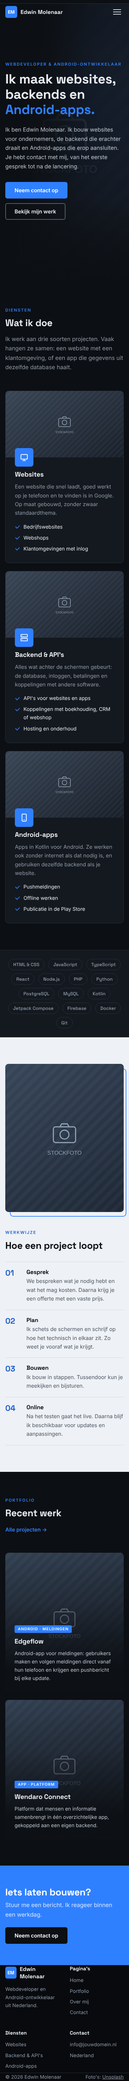
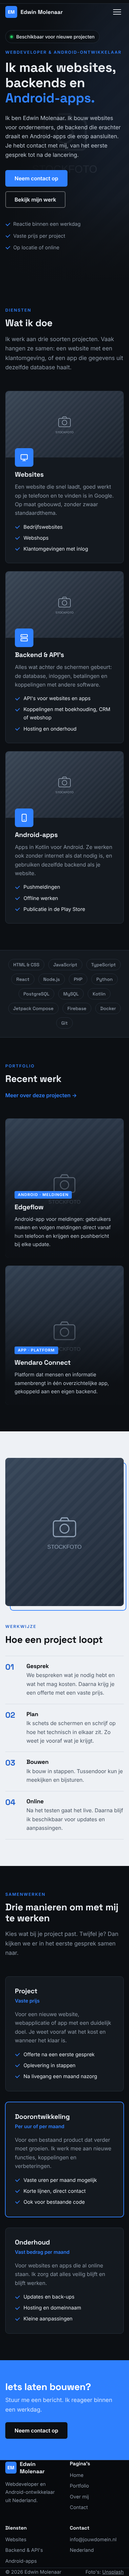
Restructure site after reviewing freelance developer sites
Homepage: availability badge and key facts in the hero, recent work
moved up, and a section with three ways of working together.
Portfolio: projects shown as larger case-study rows.

Claude-Session: https://claude.ai/code/session_01BR2aM2KyyCs7b3zr3d6H45

diff --git a/index.html b/index.html
@@ -32,6 +32,7 @@
     <section class="hero">
       <img class="hero-bg" src="https://images.unsplash.com/photo-1498050108023-c5249f4df085?auto=format&fit=crop&w=1920&q=70" alt="" aria-hidden="true">
       <div class="container hero-content">
+        <p class="status"><span class="dot"></span>Beschikbaar voor nieuwe projecten</p>
         <p class="eyebrow">Webdeveloper &amp; Android-ontwikkelaar</p>
         <h1>Ik maak websites, backends en <span class="accent">Android-apps.</span></h1>
         <p class="lead">Ik ben Edwin Molenaar. Ik bouw websites voor ondernemers, de backend die erachter draait en Android-apps die erop aansluiten. Je hebt contact met mij, van het eerste gesprek tot na de lancering.</p>
@@ -39,6 +40,11 @@
           <a href="contact.html" class="btn">Neem contact op</a>
           <a href="portfolio.html" class="btn btn-ghost">Bekijk mijn werk</a>
         </div>
+        <ul class="hero-facts">
+          <li>Reactie binnen een werkdag</li>
+          <li>Vaste prijs per project</li>
+          <li>Op locatie of online</li>
+        </ul>
       </div>
     </section>
 
@@ -99,6 +105,36 @@
       </div>
     </section>
 
+    <section class="section">
+      <div class="container">
+        <div class="section-head section-head-row">
+          <div>
+            <p class="eyebrow">Portfolio</p>
+            <h2>Recent werk</h2>
+          </div>
+          <a href="portfolio.html" class="link-arrow">Meer over deze projecten &rarr;</a>
+        </div>
+        <div class="projects projects-duo">
+          <article class="project" data-cat="android">
+            <img src="https://images.unsplash.com/photo-1551650975-87deedd944c3?auto=format&fit=crop&w=900&q=70" alt="" loading="lazy">
+            <div class="project-body">
+              <span class="tag">Android · Meldingen</span>
+              <h3>Edgeflow</h3>
+              <p>Android-app voor meldingen: gebruikers maken en volgen meldingen direct vanaf hun telefoon en krijgen een pushbericht bij elke update.</p>
+            </div>
+          </article>
+          <article class="project" data-cat="android">
+            <img src="https://images.unsplash.com/photo-1551434678-e076c223a692?auto=format&fit=crop&w=900&q=70" alt="" loading="lazy">
+            <div class="project-body">
+              <span class="tag">App · Platform</span>
+              <h3>Wendaro Connect</h3>
+              <p>Platform dat mensen en informatie samenbrengt in één overzichtelijke app, gekoppeld aan een eigen backend.</p>
+            </div>
+          </article>
+        </div>
+      </div>
+    </section>
+
     <section class="section section-light" id="werkwijze">
       <div class="container split">
         <div class="split-media">
@@ -117,31 +153,44 @@
       </div>
     </section>
 
-    <section class="section">
+
+    <section class="section" id="samenwerken">
       <div class="container">
-        <div class="section-head section-head-row">
-          <div>
-            <p class="eyebrow">Portfolio</p>
-            <h2>Recent werk</h2>
-          </div>
-          <a href="portfolio.html" class="link-arrow">Alle projecten &rarr;</a>
+        <div class="section-head">
+          <p class="eyebrow">Samenwerken</p>
+          <h2>Drie manieren om met mij te werken</h2>
+          <p>Kies wat bij je project past. Twijfel je? Dan kijken we er in het eerste gesprek samen naar.</p>
         </div>
-        <div class="projects projects-duo">
-          <article class="project" data-cat="android">
-            <img src="https://images.unsplash.com/photo-1551650975-87deedd944c3?auto=format&fit=crop&w=900&q=70" alt="" loading="lazy">
-            <div class="project-body">
-              <span class="tag">Android · Meldingen</span>
-              <h3>Edgeflow</h3>
-              <p>Android-app voor meldingen: gebruikers maken en volgen meldingen direct vanaf hun telefoon en krijgen een pushbericht bij elke update.</p>
-            </div>
+        <div class="plans">
+          <article class="plan">
+            <h3>Project</h3>
+            <p class="plan-sub">Vaste prijs</p>
+            <p>Voor een nieuwe website, webapplicatie of app met een duidelijk doel. Je weet vooraf wat het kost en wanneer het klaar is.</p>
+            <ul class="checks">
+              <li>Offerte na een eerste gesprek</li>
+              <li>Oplevering in stappen</li>
+              <li>Na livegang een maand nazorg</li>
+            </ul>
           </article>
-          <article class="project" data-cat="android">
-            <img src="https://images.unsplash.com/photo-1551434678-e076c223a692?auto=format&fit=crop&w=900&q=70" alt="" loading="lazy">
-            <div class="project-body">
-              <span class="tag">App · Platform</span>
-              <h3>Wendaro Connect</h3>
-              <p>Platform dat mensen en informatie samenbrengt in één overzichtelijke app, gekoppeld aan een eigen backend.</p>
-            </div>
+          <article class="plan plan-featured">
+            <h3>Doorontwikkeling</h3>
+            <p class="plan-sub">Per uur of per maand</p>
+            <p>Voor een bestaand product dat verder moet groeien. Ik werk mee aan nieuwe functies, koppelingen en verbeteringen.</p>
+            <ul class="checks">
+              <li>Vaste uren per maand mogelijk</li>
+              <li>Korte lijnen, direct contact</li>
+              <li>Ook voor bestaande code</li>
+            </ul>
+          </article>
+          <article class="plan">
+            <h3>Onderhoud</h3>
+            <p class="plan-sub">Vast bedrag per maand</p>
+            <p>Voor websites en apps die al online staan. Ik zorg dat alles veilig blijft en blijft werken.</p>
+            <ul class="checks">
+              <li>Updates en back-ups</li>
+              <li>Hosting en domeinnaam</li>
+              <li>Kleine aanpassingen</li>
+            </ul>
           </article>
         </div>
       </div>

diff --git a/portfolio.html b/portfolio.html
@@ -33,32 +33,32 @@
       <img class="hero-bg" src="https://images.unsplash.com/photo-1461749280684-dccba630e2f6?auto=format&fit=crop&w=1920&q=70" alt="" aria-hidden="true">
       <div class="container hero-content">
         <p class="eyebrow">Portfolio</p>
-        <h1>Werk waar ik trots op ben</h1>
-        <p class="lead">Een selectie van websites, backendsystemen en Android-apps. Elk project is maatwerk, gebouwd rond het doel van de klant.</p>
+        <h1>Projecten</h1>
+        <p class="lead">Apps en systemen die ik heb gebouwd.</p>
       </div>
     </section>
 
     <section class="section">
       <div class="container">
-        <div class="projects projects-duo" id="project-grid">
-          <article class="project" data-cat="android">
-            <img src="https://images.unsplash.com/photo-1551650975-87deedd944c3?auto=format&fit=crop&w=900&q=70" alt="" loading="lazy">
-            <div class="project-body">
-              <span class="tag">Android · Meldingen</span>
-              <h3>Edgeflow</h3>
-              <p>Android-app voor meldingen: gebruikers maken en volgen meldingen direct vanaf hun telefoon en krijgen een pushbericht bij elke update.</p>
-              <div class="tech-tags"><span>Android</span><span>Pushmeldingen</span></div>
-            </div>
-          </article>
-          <article class="project" data-cat="android">
-            <img src="https://images.unsplash.com/photo-1551434678-e076c223a692?auto=format&fit=crop&w=900&q=70" alt="" loading="lazy">
-            <div class="project-body">
-              <span class="tag">App · Platform</span>
-              <h3>Wendaro Connect</h3>
-              <p>Platform dat mensen en informatie samenbrengt in één overzichtelijke app, gekoppeld aan een eigen backend.</p>
-              <div class="tech-tags"><span>Android</span><span>Backend</span></div>
-            </div>
-          </article>
+        <div class="cases">
+        <article class="case">
+          <div class="case-media"><img src="https://images.unsplash.com/photo-1551650975-87deedd944c3?auto=format&fit=crop&w=1200&q=70" alt="" loading="lazy"></div>
+          <div class="case-body">
+            <span class="tag">Android · Meldingen</span>
+            <h2>Edgeflow</h2>
+            <p>Android-app voor meldingen: gebruikers maken en volgen meldingen direct vanaf hun telefoon en krijgen een pushbericht bij elke update.</p>
+            <div class="tech-tags"><span>Android</span><span>Pushmeldingen</span></div>
+          </div>
+        </article>
+        <article class="case case-flip">
+          <div class="case-media"><img src="https://images.unsplash.com/photo-1551434678-e076c223a692?auto=format&fit=crop&w=1200&q=70" alt="" loading="lazy"></div>
+          <div class="case-body">
+            <span class="tag">App · Platform</span>
+            <h2>Wendaro Connect</h2>
+            <p>Platform dat mensen en informatie samenbrengt in één overzichtelijke app, gekoppeld aan een eigen backend.</p>
+            <div class="tech-tags"><span>Android</span><span>Backend</span></div>
+          </div>
+        </article>
         </div>
       </div>
     </section>

diff --git a/style.css b/style.css
@@ -293,6 +293,37 @@ p { margin: 0 0 1em; }
 .footer-grid .logo { color: var(--text); }
 .footer-bottom { display: flex; flex-wrap: wrap; justify-content: space-between; gap: 10px 24px; border-top: 1px solid var(--line); padding-top: 22px; padding-bottom: 28px; }
 
+/* Beschikbaarheid & feiten in de hero */
+.status {
+  display: inline-flex; align-items: center; gap: 10px; margin-bottom: 22px;
+  font-size: .88rem; font-weight: 500; color: var(--text);
+  border: 1px solid var(--line); background: rgba(var(--bg-rgb), .6);
+  padding: 7px 14px; border-radius: 999px;
+}
+.dot { width: 8px; height: 8px; border-radius: 50%; background: #22c55e; box-shadow: 0 0 0 4px rgba(34, 197, 94, .18); }
+.hero-facts { list-style: none; padding: 0; margin: 36px 0 0; display: flex; flex-wrap: wrap; gap: 10px 28px; color: var(--muted); font-size: .95rem; }
+.hero-facts li { position: relative; padding-left: 24px; }
+.hero-facts li::before {
+  content: ""; position: absolute; left: 2px; top: .5em;
+  width: 10px; height: 6px; border-left: 2px solid var(--accent); border-bottom: 2px solid var(--accent);
+  transform: rotate(-45deg);
+}
+
+/* Samenwerken */
+.plans { display: grid; grid-template-columns: repeat(3, 1fr); gap: 24px; align-items: stretch; }
+.plan { position: relative; background: var(--surface); border: 1px solid var(--line); border-radius: var(--radius); padding: 32px 28px; }
+.plan > p:not(.plan-sub) { color: var(--muted); }
+.plan-sub { color: var(--accent); font-weight: 600; font-size: .92rem; margin-top: -.4em; }
+.plan-featured { border-color: var(--accent); box-shadow: 0 0 0 1px var(--accent); }
+
+/* Portfolio: case studies */
+.cases { display: grid; gap: 72px; }
+.case { display: grid; grid-template-columns: 1.15fr 1fr; gap: 56px; align-items: center; }
+.case-flip .case-media { order: 2; }
+.case-media { border-radius: var(--radius); overflow: hidden; background: var(--surface-2); aspect-ratio: 4 / 3; border: 1px solid var(--line); }
+.case-media img { width: 100%; height: 100%; object-fit: cover; }
+.case-body p { color: var(--soft-text); font-size: 1.05rem; }
+
 /* Reveal animation */
 .reveal { opacity: 0; transform: translateY(24px); transition: opacity .7s, transform .7s; }
 .reveal.visible { opacity: 1; transform: none; }
@@ -305,6 +336,9 @@ p { margin: 0 0 1em; }
 @media (max-width: 960px) {
   .services, .projects { grid-template-columns: 1fr; max-width: 560px; }
   .values { grid-template-columns: repeat(2, 1fr); }
+  .plans { grid-template-columns: 1fr; max-width: 560px; gap: 32px; }
+  .case { grid-template-columns: 1fr; gap: 28px; }
+  .case-flip .case-media { order: 0; }
   .footer-grid { grid-template-columns: 1fr 1fr; }
   .split, .contact { grid-template-columns: 1fr; gap: 56px; }
   .split-media { max-width: 520px; }

diff --git a/script.js b/script.js
@@ -24,7 +24,7 @@ document.querySelectorAll("img").forEach((img) =>
 );
 
 // Elementen laten infaden bij scrollen
-const revealItems = document.querySelectorAll(".section-head, .service, .project, .split > *, .contact > *, .value, .skill-group, .faq");
+const revealItems = document.querySelectorAll(".section-head, .service, .project, .split > *, .contact > *, .value, .skill-group, .faq, .plan, .case");
 revealItems.forEach((el) => el.classList.add("reveal"));
 if ("IntersectionObserver" in window) {
   const io = new IntersectionObserver((entries) => {
